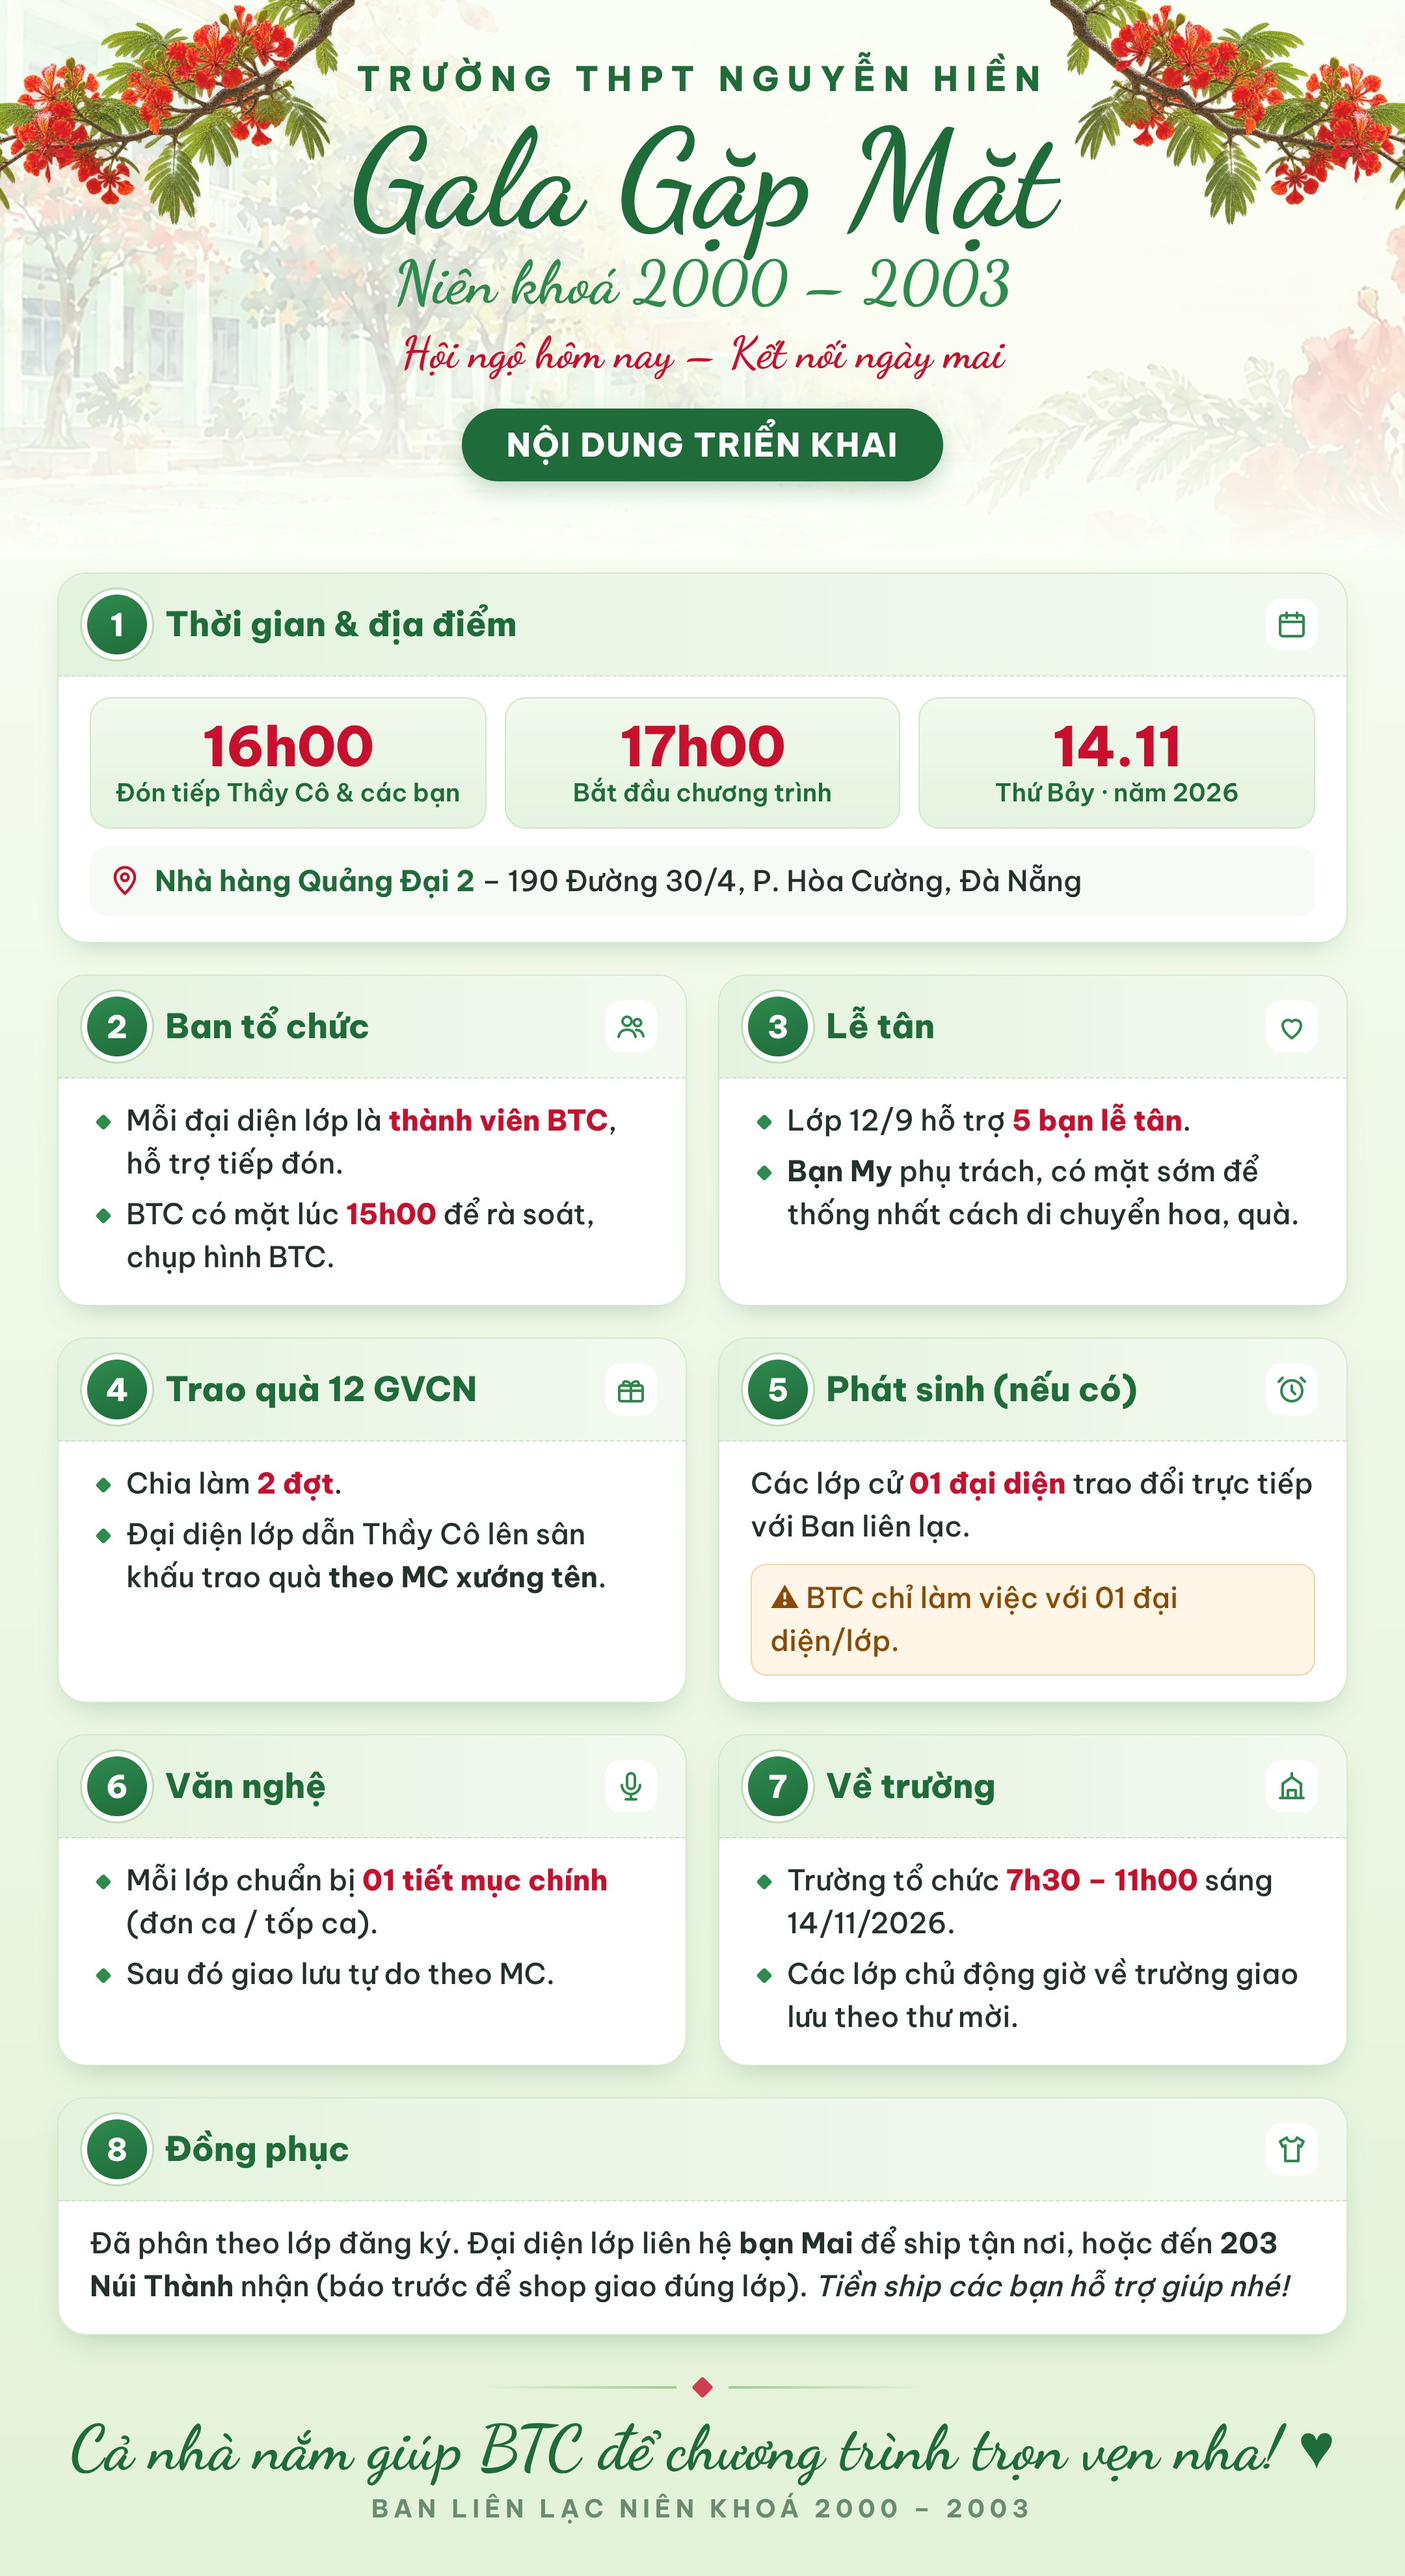
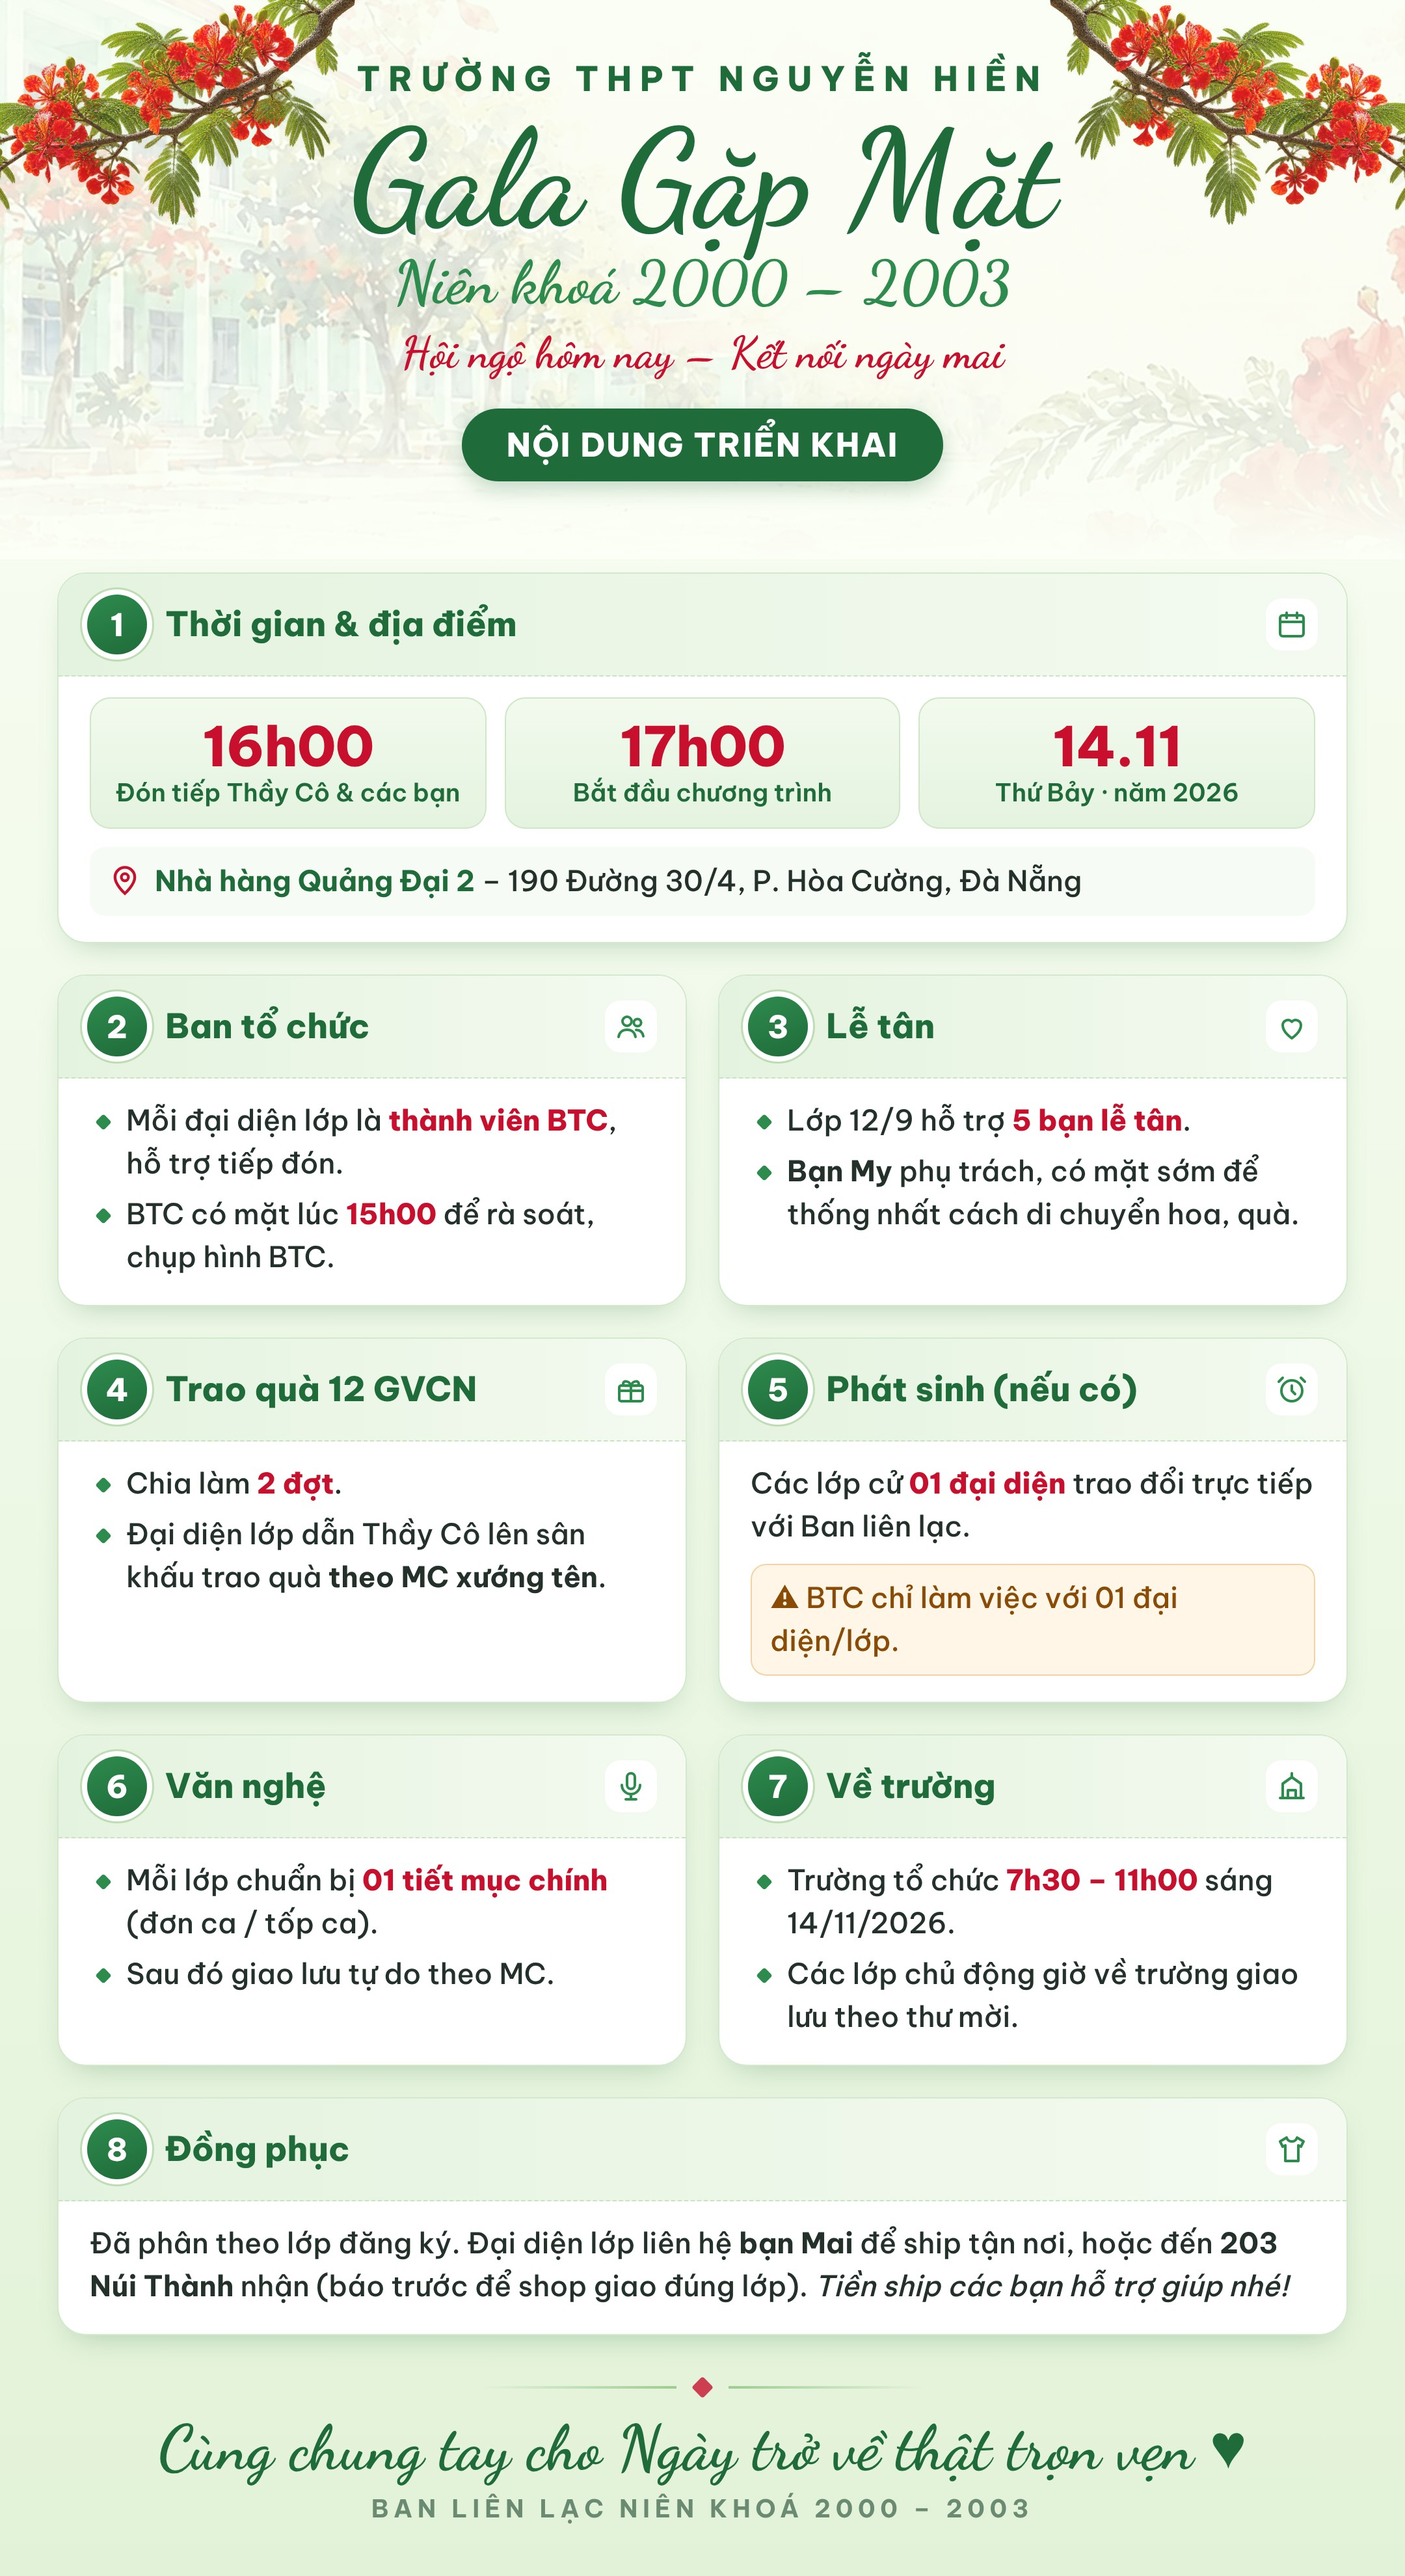
Bản tin: câu kết Cùng chung tay cho Ngày trở về thật trọn vẹn
Claude-Session: https://claude.ai/code/session_01Y1ZWh7bFy81zQtocY5fDHA

Changed region(s): [[0.062, 0.9318, 0.8995, 0.9629], [0.9306, 0.9318, 0.9616, 0.9629]]

diff --git a/thiet-ke/thong-tin-hop-08-11/thong-tin.html b/thiet-ke/thong-tin-hop-08-11/thong-tin.html
@@ -79,5 +79,5 @@ b.do{color:var(--do);font-weight:800}
 
 </div>
 <div class="hoa"><i></i><b></b><i></i></div>
-<p class="ket">Cả nhà nắm giúp BTC để chương trình trọn vẹn nha! ♥<small>BAN LIÊN LẠC NIÊN KHOÁ 2000 – 2003</small></p>
+<p class="ket">Cùng chung tay cho Ngày trở về thật trọn vẹn ♥<small>BAN LIÊN LẠC NIÊN KHOÁ 2000 – 2003</small></p>
 </div></body></html>
